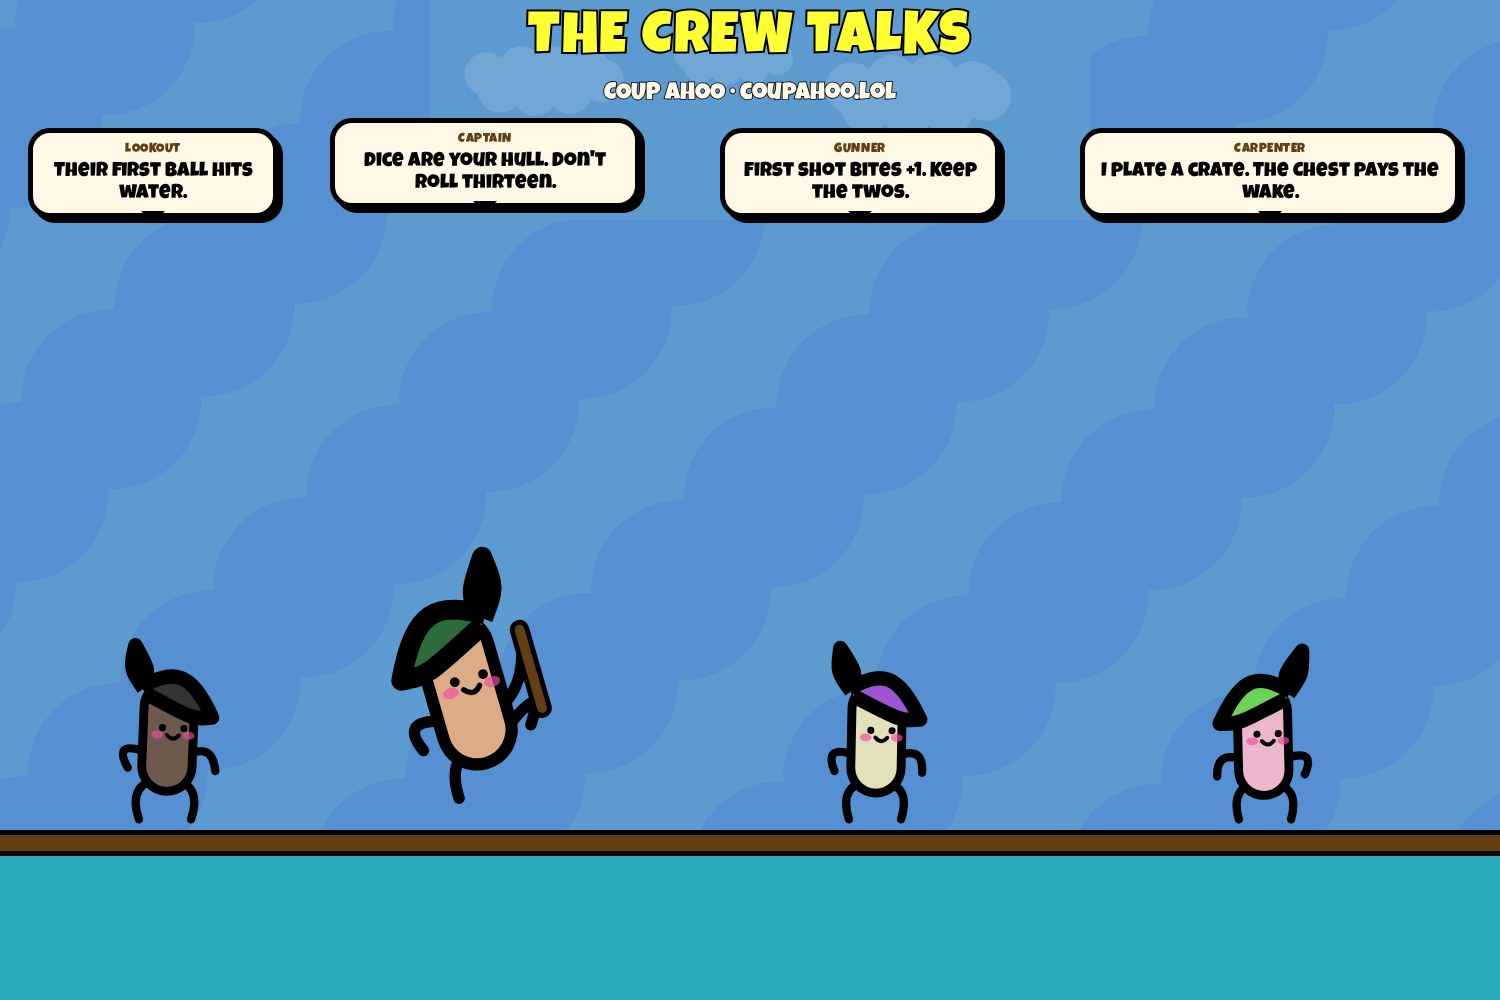
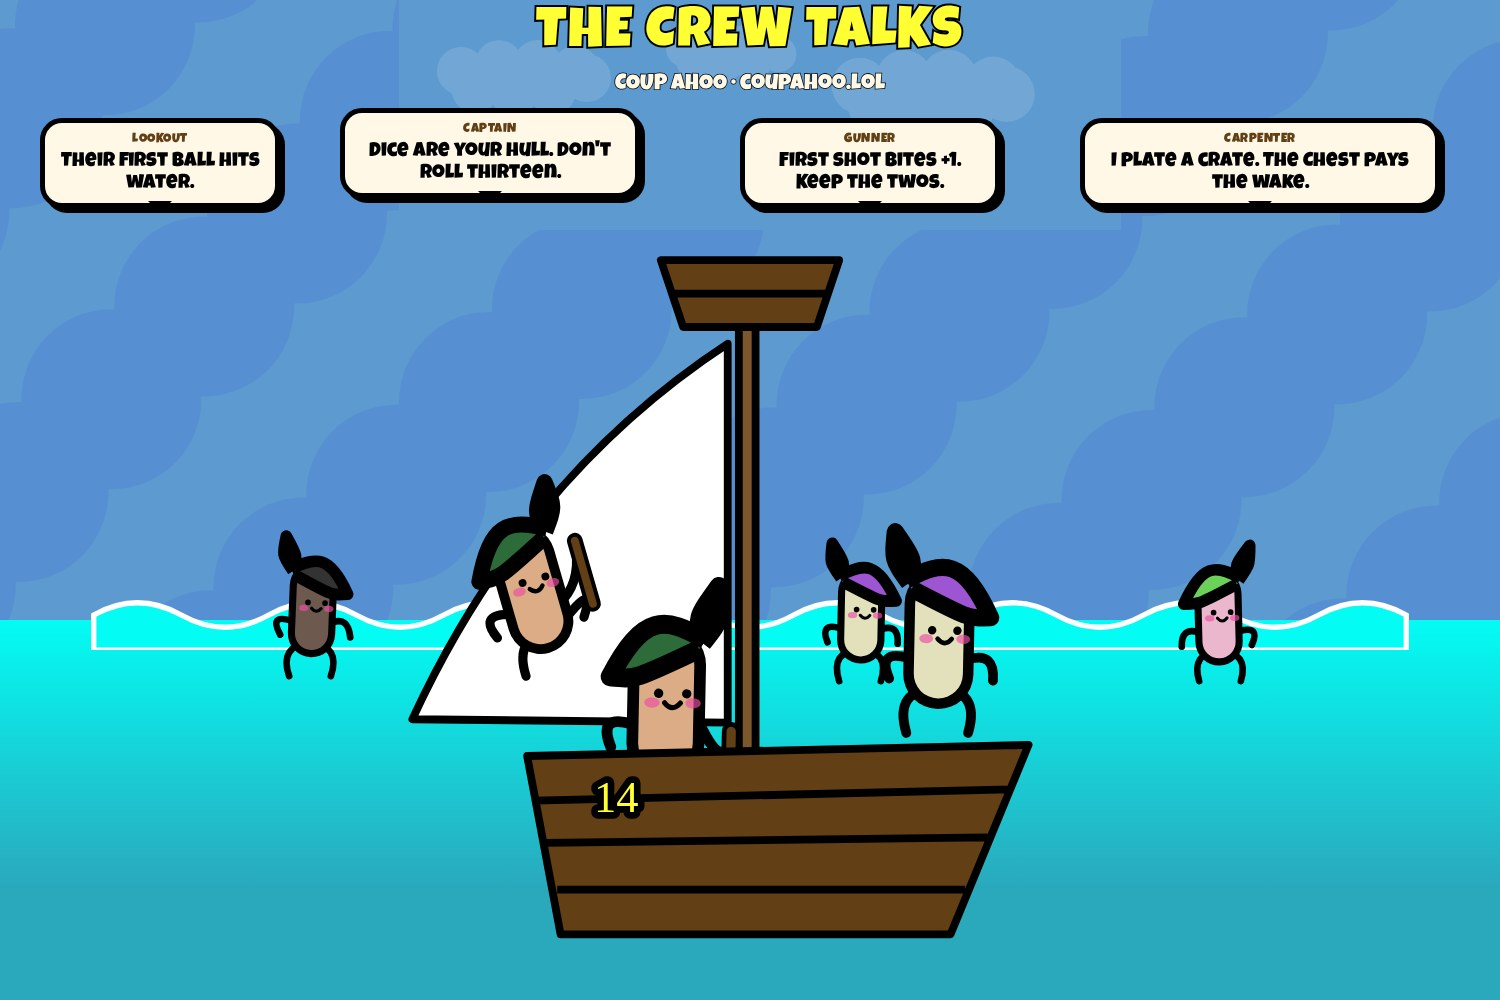
Crew on the ship, in the water.

diff --git a/public/x/crew.html b/public/x/crew.html
@@ -2,7 +2,7 @@
 <html lang="en">
   <head>
     <meta charset="utf-8" />
-    <title>Coup Ahoo crew</title>
+    <title>Coup Ahoo crew at sea</title>
     <link rel="preconnect" href="https://fonts.googleapis.com" />
     <link href="https://fonts.googleapis.com/css2?family=Luckiest+Guy&display=swap" rel="stylesheet" />
     <style>
@@ -15,10 +15,9 @@
       }
       .bg { position: absolute; inset: 0; width: 100%; height: 100%; object-fit: cover; }
       .fg { position: absolute; object-fit: contain; pointer-events: none; }
-      .sea { position: absolute; left: 0; right: 0; bottom: 0; height: 150px; background: #2aa9bd; border-top: 6px solid #fff8; }
-      .deck {
-        position: absolute; left: 0; right: 0; bottom: 144px; height: 26px;
-        background: #633f15; border-top: 5px solid #000; border-bottom: 5px solid #000;
+      .sea {
+        position: absolute; left: 0; right: 0; bottom: 0; height: 38%;
+        background: linear-gradient(#03fcf4 0%, #2aa9bd 70%);
       }
       .t {
         margin: 0; color: #ff3; text-align: center; line-height: 0.9;
@@ -39,7 +38,7 @@
         line-height: 1.12;
         text-align: center;
         box-shadow: 5px 5px 0 #000;
-        z-index: 6;
+        z-index: 8;
       }
       .bubble:after {
         content: "";
@@ -57,35 +56,40 @@
   <body>
     <div class="board" id="crew">
       <img class="bg" src="/ahoo/sky-texture.svg" alt="" />
-      <img class="fg" src="/ahoo/clouds.svg" alt="" style="top:0;left:-40px;width:1600px;height:220px" />
+      <img class="fg" src="/ahoo/clouds.svg" alt="" style="top:-10px;left:-40px;width:1600px;height:240px" />
       <div class="sea"></div>
-      <div class="deck"></div>
-      <p class="t" style="position:absolute;left:0;right:0;top:14px;font-size:58px">THE CREW TALKS</p>
-      <p class="s" style="position:absolute;left:0;right:0;top:82px;font-size:24px">COUP AHOO · coupahoo.lol</p>
+      <svg class="fg" viewBox="0 0 1500 80" style="left:0;bottom:35%;width:1500px;height:70px;z-index:2">
+        <path d="M0,40 Q50,12 100,40 T200,40 T300,40 T400,40 T500,40 T600,40 T700,40 T800,40 T900,40 T1000,40 T1100,40 T1200,40 T1300,40 T1400,40 T1500,40 L1500,80 L0,80 Z" fill="#03fcf4" stroke="#fff" stroke-width="6"/>
+      </svg>
 
-      <div class="bubble" style="left:28px;top:128px;width:250px">
+      <p class="t" style="position:absolute;left:0;right:0;top:10px;font-size:56px;z-index:9">THE CREW TALKS</p>
+      <p class="s" style="position:absolute;left:0;right:0;top:74px;font-size:22px;z-index:9">COUP AHOO · coupahoo.lol</p>
+
+      <img class="fg" src="/ahoo/ship-player.svg" alt="" style="left:140px;bottom:10px;width:1220px;height:780px;z-index:3" />
+
+      <div class="bubble" style="left:40px;top:118px;width:240px">
         <span class="who">LOOKOUT</span>
         Their first ball hits water.
       </div>
-      <img class="fg" src="/ahoo/crew-navigator.svg" alt="" style="left:40px;bottom:155px;width:250px;height:340px;z-index:4" />
+      <img class="fg" src="/ahoo/crew-navigator.svg" alt="" style="left:210px;bottom:305px;width:200px;height:270px;z-index:5" />
 
-      <div class="bubble" style="left:330px;top:118px;width:310px">
+      <div class="bubble" style="left:340px;top:108px;width:300px">
         <span class="who">CAPTAIN</span>
         Dice are your hull. Don't roll thirteen.
       </div>
-      <img class="fg" src="/ahoo/captain-posing.svg" alt="" style="left:340px;bottom:150px;width:310px;height:430px;z-index:4" />
+      <img class="fg" src="/ahoo/captain-posing.svg" alt="" style="left:430px;bottom:285px;width:250px;height:340px;z-index:6" />
 
-      <div class="bubble" style="left:720px;top:128px;width:280px">
+      <div class="bubble" style="left:740px;top:118px;width:260px">
         <span class="who">GUNNER</span>
         First shot bites +1. Keep the twos.
       </div>
-      <img class="fg" src="/ahoo/crew-cannoneer.svg" alt="" style="left:750px;bottom:155px;width:250px;height:340px;z-index:4" />
+      <img class="fg" src="/ahoo/crew-cannoneer.svg" alt="" style="left:760px;bottom:300px;width:200px;height:270px;z-index:5" />
 
-      <div class="bubble" style="left:1080px;top:128px;width:380px">
+      <div class="bubble" style="left:1080px;top:118px;width:360px">
         <span class="who">CARPENTER</span>
         I plate a crate. The Chest pays the wake.
       </div>
-      <img class="fg" src="/ahoo/crew-quartermaster.svg" alt="" style="left:1140px;bottom:155px;width:250px;height:340px;z-index:4" />
+      <img class="fg" src="/ahoo/crew-quartermaster.svg" alt="" style="left:1120px;bottom:300px;width:200px;height:270px;z-index:5" />
     </div>
   </body>
 </html>
